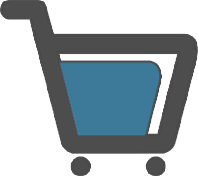
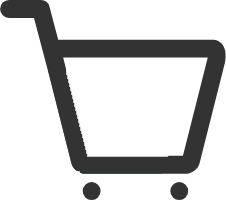
搜索栏和积分样式修改

diff --git a/src/components/HelloWorld.vue b/src/components/HelloWorld.vue
@@ -1,58 +1,51 @@
 <template>
   <div class="hello">
-    <h1>{{ msg }}</h1>
-    <p>
-      For a guide and recipes on how to configure / customize this project,<br>
-      check out the
-      <a href="https://cli.vuejs.org" target="_blank" rel="noopener">vue-cli documentation</a>.
-    </p>
-    <h3>Installed CLI Plugins</h3>
-    <ul>
-      <li><a href="https://github.com/vuejs/vue-cli/tree/dev/packages/%40vue/cli-plugin-babel" target="_blank" rel="noopener">babel</a></li>
-      <li><a href="https://github.com/vuejs/vue-cli/tree/dev/packages/%40vue/cli-plugin-eslint" target="_blank" rel="noopener">eslint</a></li>
-    </ul>
-    <h3>Essential Links</h3>
-    <ul>
-      <li><a href="https://vuejs.org" target="_blank" rel="noopener">Core Docs</a></li>
-      <li><a href="https://forum.vuejs.org" target="_blank" rel="noopener">Forum</a></li>
-      <li><a href="https://chat.vuejs.org" target="_blank" rel="noopener">Community Chat</a></li>
-      <li><a href="https://twitter.com/vuejs" target="_blank" rel="noopener">Twitter</a></li>
-      <li><a href="https://news.vuejs.org" target="_blank" rel="noopener">News</a></li>
-    </ul>
-    <h3>Ecosystem</h3>
-    <ul>
-      <li><a href="https://router.vuejs.org" target="_blank" rel="noopener">vue-router</a></li>
-      <li><a href="https://vuex.vuejs.org" target="_blank" rel="noopener">vuex</a></li>
-      <li><a href="https://github.com/vuejs/vue-devtools#vue-devtools" target="_blank" rel="noopener">vue-devtools</a></li>
-      <li><a href="https://vue-loader.vuejs.org" target="_blank" rel="noopener">vue-loader</a></li>
-      <li><a href="https://github.com/vuejs/awesome-vue" target="_blank" rel="noopener">awesome-vue</a></li>
-    </ul>
+    <Checkbox :indeterminate="isIndeterminate" v-model="checkAll" @change="handleCheckAllChange">全选</Checkbox>
+    <div style="margin: 15px 0;"></div>
+    <CheckboxGroup v-model="checkedCities" @change="handleCheckedCitiesChange">
+      <Checkbox v-for="city in cities" :label="city" :key="city">{{city}}</Checkbox>
+    </CheckboxGroup>  
   </div>
 </template>
 
 <script>
+import { Checkbox, CheckboxGroup } from 'element-ui'
+const cityOptions = ['上海', '北京', '广州', '深圳'];
 export default {
   name: 'HelloWorld',
-  props: {
-    msg: String
+  components:{
+    Checkbox,
+    CheckboxGroup
+  },
+  data(){
+    return{
+      value: '',
+      checkAll: false,
+      checkedCities: ['上海', '北京'],
+      cities: cityOptions,
+      isIndeterminate: true
+    }
+  },
+  methods:{
+    handleCheckAllChange(val) {
+        this.checkedCities = val ? cityOptions : [];
+        this.isIndeterminate = false;
+    },
+    handleCheckedCitiesChange(value) {
+      let checkedCount = value.length;
+      this.checkAll = checkedCount === this.cities.length;
+      this.isIndeterminate = checkedCount > 0 && checkedCount < this.cities.length;
+    }
   }
 }
 </script>
 
 <!-- Add "scoped" attribute to limit CSS to this component only -->
-<style scoped lang="scss">
-h3 {
-  margin: 40px 0 0;
-}
-ul {
-  list-style-type: none;
-  padding: 0;
-}
-li {
-  display: inline-block;
-  margin: 0 10px;
-}
-a {
-  color: #42b983;
-}
+<style lang="scss">
+  .hello{
+    margin-top:50px; 
+    .el-checkbox__inner{
+      border-radius: 100%
+    }
+  }
 </style>

diff --git a/src/views/good/item.vue b/src/views/good/item.vue
@@ -48,7 +48,7 @@
                 <span class="add_num" :class="add_num?'add_num_show':''" id="popone">+1</span>
                 <Badge :value="1">                    
                     <div class="img">
-                        <img src="/img/cart.png" alt="cart">
+                        <img src="/img/cart_item.png" alt="cart">
                     </div>
                 </Badge>
                 <p>购物车</p>
@@ -124,7 +124,7 @@ export default {
 }
 </script>
 <style lang="scss">
-    @keyframes de_add_num{
+    @-webkit-keyframes de_add_num{
         0%{top:-10px;opacity:1}
         50%{top:-25px;opacity:1}
         100%{top:-25px;opacity:0}
@@ -255,7 +255,7 @@ export default {
             .add_num_show{
                     display: block;
                     opacity: 0;
-                    animation: de_add_num 2s;
+                    -webkit-animation: de_add_num 2s;
             }
                   
         }

diff --git a/src/components/head/Header.vue b/src/components/head/Header.vue
@@ -10,7 +10,7 @@ export default {
 }
 </script>
 
-<style lang="scss">
+<style lang="scss" scoped>
     .header{
         position: fixed;
         display: -webkit-flex;
@@ -20,16 +20,15 @@ export default {
         -webkit-justify-content: center;
         justify-content: center;
         top: 0;
-        left: 0;
         height: 36px;
-        width: 375px;
+        width: 100%;
         background-color: white;
         border-bottom: #e5e5e5 1px solid;
         box-sizing: border-box;
         z-index: 100;
         input{
             height: 28px;
-            width: 355px;
+            width: 330px;
             font-size: 12px;
             background-color: #e5e5e5;
             background-image: url('/img/search.png');
@@ -41,6 +40,6 @@ export default {
             outline: none;
             border: 0;
             padding-left:25px;
-        };
+        }
     }
 </style>

diff --git a/src/router.js b/src/router.js
@@ -4,7 +4,7 @@ import Home from './views/Home.vue'
 
 Vue.use(Router)
 
-export default new Router({
+const router =  new Router({
   mode: 'history',
   base: process.env.BASE_URL,
   routes: [
@@ -60,3 +60,13 @@ export default new Router({
     }
   ]
 })
+
+router.beforeEach((to, from, next) => {
+  /* 路由发生变化修改页面title */
+  if (to.meta.title) {
+    document.title = to.meta.title
+  }
+  next()
+})
+
+export default router

diff --git a/src/components/Credit.vue b/src/components/Credit.vue
@@ -51,7 +51,7 @@ export default {
 }
 </script>
 
-<style lang="scss">
+<style lang="scss" scoped>
     $height: 230px;
     @keyframes action{
         0%{
@@ -71,7 +71,6 @@ export default {
         }
     }
     .credit{
-        position: relative;
         display: flex;
         display: -webkit-flex;
         justify-content: center;
